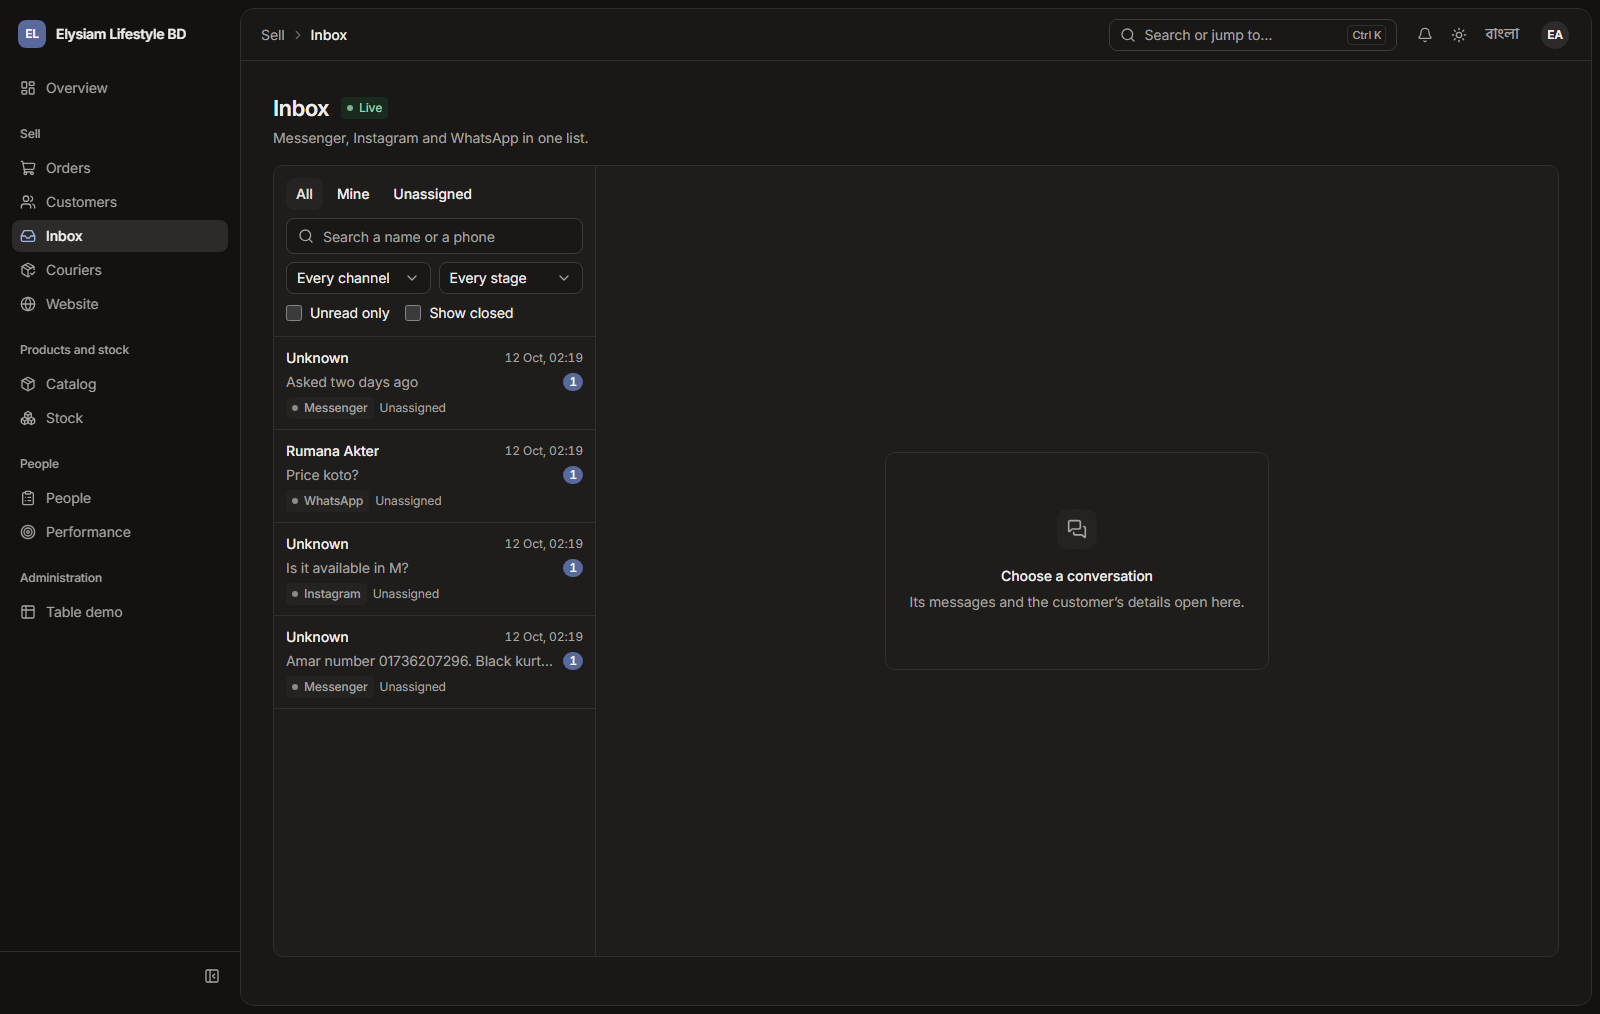
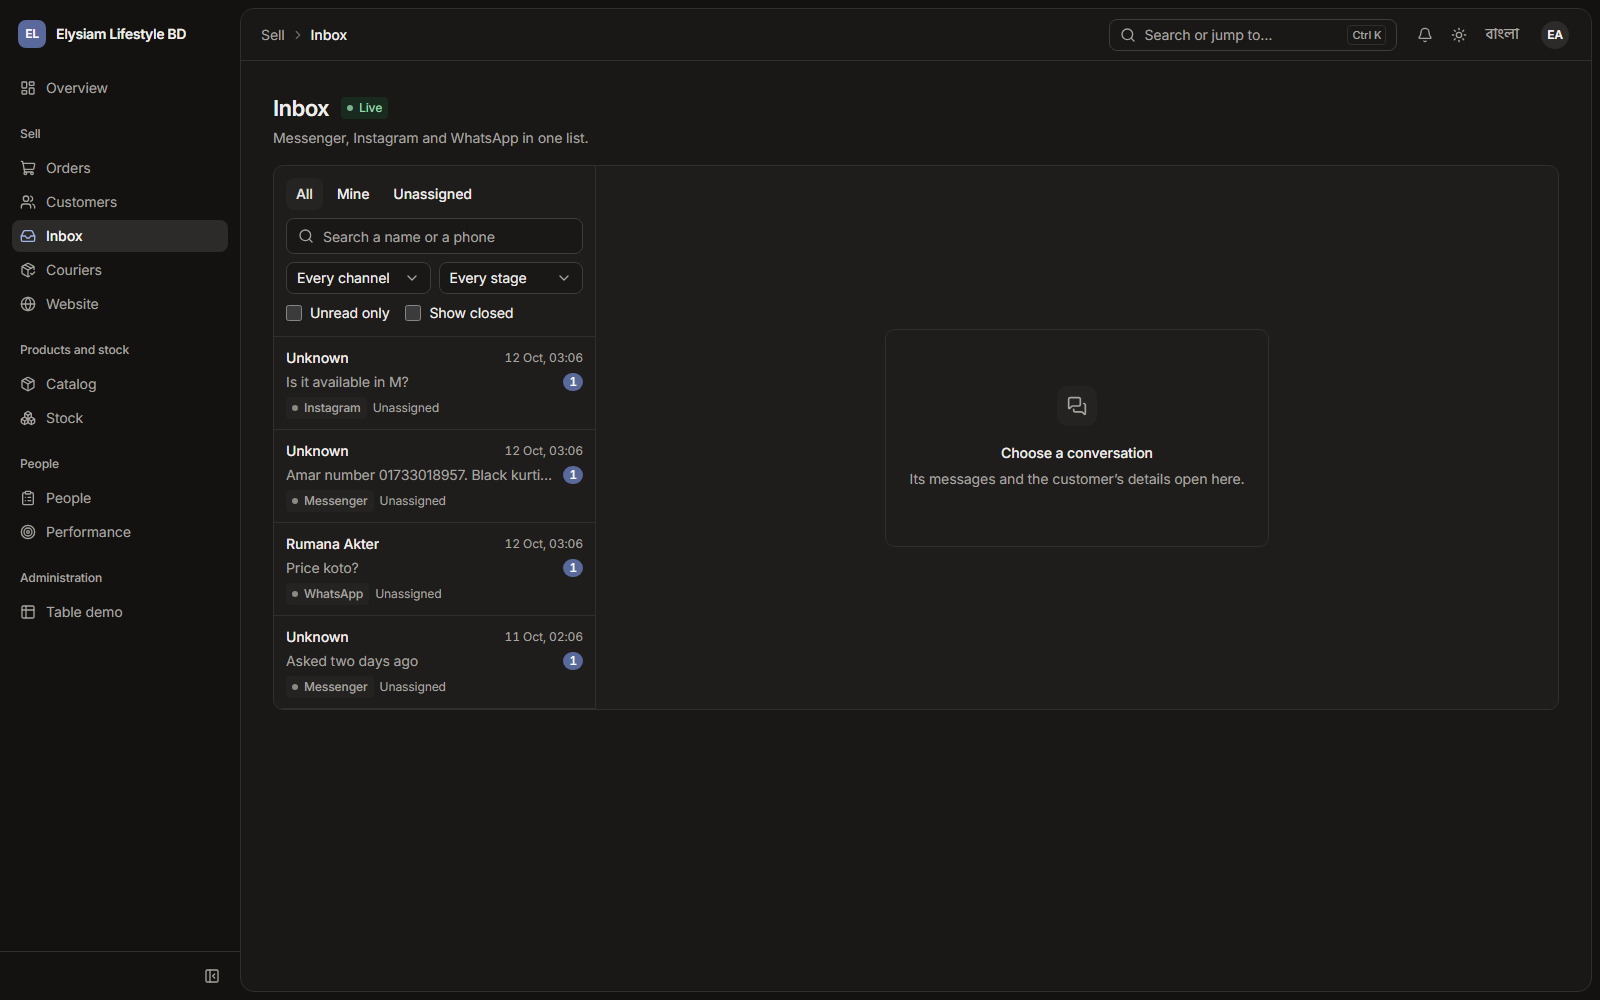
docs(m42): progress, plan Status and D-739 addresses; the inbox's height bound moved onto its panes with a class the console already ships (bundle 27 bytes under budget)

diff --git a/apps/console/src/routes/inbox/inbox-page.tsx b/apps/console/src/routes/inbox/inbox-page.tsx
@@ -142,7 +142,7 @@ function Inbox() {
           {notice}
         </p>
       )}
-      <div className="grid overflow-hidden rounded-lg border border-border bg-card lg:h-[calc(100vh-13rem)] lg:grid-cols-4">
+      <div className="grid overflow-hidden rounded-lg border border-border bg-card lg:grid-cols-4">
         <ConversationList
           filters={filters}
           selected={search.c ?? null}
@@ -207,7 +207,10 @@ function ConversationList({
   ] as const;
 
   return (
-    <section aria-labelledby={`${ids}-title`} className="flex min-h-0 flex-col">
+    <section
+      aria-labelledby={`${ids}-title`}
+      className="flex min-h-0 flex-col md:max-h-[calc(100dvh-14rem)]"
+    >
       <h2 id={`${ids}-title`} className="sr-only">
         {t('inbox.list.label')}
       </h2>
@@ -526,7 +529,7 @@ function Thread({ view, me }: { readonly view: ThreadView; readonly me: string |
   return (
     <section
       aria-labelledby={`${ids}-name`}
-      className="flex min-h-0 min-w-0 flex-col border-l border-border lg:col-span-2"
+      className="flex min-h-0 min-w-0 flex-col border-l border-border md:max-h-[calc(100dvh-14rem)] lg:col-span-2"
     >
       <header className="space-y-2 border-b border-border px-4 py-3">
         <div className="flex flex-wrap items-center gap-2">

diff --git a/apps/console/src/routes/inbox/panel.tsx b/apps/console/src/routes/inbox/panel.tsx
@@ -65,7 +65,7 @@ export function ContactPanel({
   return (
     <aside
       aria-labelledby={`${ids}-title`}
-      className="min-h-0 overflow-y-auto border-l border-border"
+      className="min-h-0 overflow-y-auto border-l border-border md:max-h-[calc(100dvh-14rem)]"
     >
       <h2 id={`${ids}-title`} className="sr-only">
         {t('inbox.panel.label')}

diff --git a/docs/decisions.md b/docs/decisions.md
@@ -603,7 +603,7 @@ Format: `- <date> · <milestone> · D-0xx · <assumption> · <why this default> 
 - 2026-10-11 · M42 · D-736 · **Permissions.** New subjects: `Conversation` (sales and org_admin, `read` and `update` at `org`), `ConversationAssignment` (org_admin, `update`: handing someone else's conversation to a third person) and `InboxChannel` (org_admin, `read` and `update`: Settings → Inbox). Sales see the whole inbox, not their own slice as with orders: a conversation nobody has must be visible to be taken, and a colleague covering a thread must see whose it is; the owner is protected by D-737, not by hiding the thread. Marketing, accounts and the other roles have no inbox. Every route declares one of these, with route-matrix and cost-sweep fixtures and §6 fixture rows · The brief: "a CASL subject for sales, with supervisors seeing everything" · Narrow sales to `own` plus unassigned if the owner wants agents to see only their own threads.
 - 2026-10-11 · M42 · D-737 · **Ownership.** Take (the conversation's row locked, so two people taking at once are served in turn: one 200, the other a 409 naming the owner), release, hand over (the owner hands over their own, anyone may give one nobody has), close and reopen. **Who has a conversation changes only by its owner or a supervisor:** taking over, releasing or handing over someone else's needs `update ConversationAssignment` (org_admin) as well as the acknowledgement, 403 `INBOX_HANDOVER_NOT_ALLOWED` otherwise (the ledger audit's W2: take-over-then-hand-on was a two-call way round the gate); covering a colleague's thread (a reply, a note, the panel) needs only the acknowledgement, and the console shows Take, Release and Hand over accordingly. Any write on a conversation someone else has (reply, take, release, hand over, close, reopen, and the panel's phone, address, stage, tags, notes and interests) needs the request header `x-acknowledge-owner: 1`; without it, 409 `INBOX_OWNER_ACK_REQUIRED` (`reason: owned_by_other`, the owner named in `detail`); with it the write goes ahead, its audit row (written in the write's own transaction) carries `acknowledgedOwner`, and `inbox.owner_overridden` goes to the owner's own room. Replying in a conversation nobody has takes it. Marking read clears the unread count only for the owner. **Auto-offer** is a port (`CONVERSATION_OFFER`, `ports/conversation-offer.port.ts`) called inside the transaction that records a new message in a conversation nobody has, with a do-nothing default; M41's engine binds to it after it merges, and M41's work types decide who is offered. CORS allows the header · The brief; M41 builds the engine and the work types · Bind M41's offer engine, and filter `GET /v1/inbox/team` by work type, when M41 lands.
 - 2026-10-11 · M42 · D-738 · **Contact stages.** `visitor`, `lead`, `customer`, `not_qualified`, `fraud`. An agent chooses lead, not qualified, fraud, or automatic; Customer is never chosen by hand: the worker hears `order.created` and moves every contact linked to that buyer, or holding that saved phone, to Customer, and the contact of the conversation named in the order's `source` too; it links a contact to the buyer only when the contact has no buyer yet (the source conversation's only when its saved phone, if any, is the buyer's), never relinks one, and audits each change as `system:inbox` in the same transaction (the ledger audit's W3); Fraud stays Fraud through an order. Lead is refused (409 `INBOX_STAGE_INVALID`) for someone who has ordered. Fraud marks the conversation red in the list and the thread, and the order desk warns for that phone (`GET /v1/inbox/phone-flags`). The stage is the inbox's own tenant label: not the cross-brand fraud check D-291 removed, and **not synced with `marketing.leads`** (M18's segment records with product, size, age band and profession), which stay the marketing team's · `stageAfterOrder`, `chooseStage`, `reconcileStage` in `@elysium/domain/inbox`, property-tested · A "record as a lead" action into `marketing.leads` is a follow-up if the owner wants the segment reports fed from chats.
-- 2026-10-11 · M42 · D-739 · **Phones in a chat.** `extractBdPhones` (`@elysium/domain/inbox`) offers every Bangladeshi mobile standing alone in the last 50 inbound messages: `01XXXXXXXXX`, `+8801…`, `8801…`, `008801…`, single spaces, dots or dashes between digit groups, Bangla (and Arabic-Indic and full-width) digits, validated by the order desk's own `normalizeBdPhone` (D-170), each once, newest first; a number glued inside a longer digit run, a landline and a ten-digit run without its zero are not offered. A WhatsApp `wa_id` that is a Bangladeshi mobile is offered too, never saved unasked (Meta: "a WhatsApp user's ID and phone number may not always match"). Saving one links the contact to the brand's buyer with that number (`OrdersApi.buyerIdByPhone`) when the customer gave it in this chat (an inbound message or their WhatsApp id) or the agent may open that buyer anyway (`OrdersApi.customerReachable`, the desk's rule); a number typed from elsewhere for a buyer outside the agent's reach is saved without the link, so the panel is no phone-to-buyer lookup (the ledger audit's W1). With no buyer, the order desk creates one · fast-check properties over every written form · —
+- 2026-10-11 · M42 · D-739 · **Phones in a chat.** `extractBdPhones` (`@elysium/domain/inbox`) offers every Bangladeshi mobile standing alone in the last 50 inbound messages: `01XXXXXXXXX`, `+8801…`, `8801…`, `008801…`, single spaces, dots or dashes between digit groups, Bangla (and Arabic-Indic and full-width) digits, validated by the order desk's own `normalizeBdPhone` (D-170), each once, newest first; a number glued inside a longer digit run, a landline and a ten-digit run without its zero are not offered. A WhatsApp `wa_id` that is a Bangladeshi mobile is offered too, never saved unasked (Meta: "a WhatsApp user's ID and phone number may not always match"). Saving one links the contact to the brand's buyer with that number (`OrdersApi.buyerIdByPhone`) when the customer gave it in this chat (an inbound message or their WhatsApp id) or the agent may open that buyer anyway (`OrdersApi.customerReachable`, the desk's rule); a number typed from elsewhere for a buyer outside the agent's reach is saved without the link, so the panel is no phone-to-buyer lookup (the ledger audit's W1). With no buyer, the order desk creates one Addresses found in the chat the same way: `addressesInTexts` (`@elysium/domain/inbox`) matches the thanas of the brand's geography (`ref.thanas`, English and Bangla names) as whole words in the last 50 inbound messages, a name several districts share only with one of those districts named too, and the panel offers each with its district and the message as the address line, saved in one click (the district and thana pickers stay for typing one) · fast-check properties over every written form · —
 - 2026-10-11 · M42 · D-740 · **The panel's customer, by the buyer profile's rule.** The linked buyer's brand-wide counters (orders, delivered, returned, cancelled, spend: what the buyer is to the brand, naming no agent's order) and their ten newest orders **that the viewer may open** (`read Order` with the sales queue, computed from the viewer's own context by `orderReadScopeFor`, since the route declares `read Conversation`), each as number, status, channel, COD and date, through `OrdersApi.customerPanel`. A buyer is linked only as D-739 says, so the panel shows nobody the agent could not reach or the customer did not name. No address, no cost · The ledger audit's W1 found the first cut listing every order of any buyer whose phone an agent typed, past §6's own-order scope · —
 - 2026-10-11 · M42 · D-741 · **Product interests.** A contact's interest is a product, optionally one size or colour, unique per contact and product. The panel shows each with today's catalog: name, status, first photo (`CatalogApi.productSummaries`, new), each active SKU's label, selling and regular price (`CatalogApi.webSkus`), and the units available at the order desk's own location (`OrdersApi.deskAvailability`, new; none for a brand with no location). Nothing near a cost; the cost sweep covers the panel. An interest keeps its product and SKU (the catalog's references port, D-621: `inbox_interests`), so such a product is archived rather than deleted · Invariants 5 and 12 · —
 - 2026-10-11 · M42 · D-742 · **Create order from the chat.** The panel's Create order opens `/orders/new?conversation=<id>`; the desk fetches `GET /v1/inbox/conversations/:id/order-draft` (only the id is in the address bar) and fills, never over what the agent typed: the channel (Messenger → `facebook`, Instagram → `instagram`, WhatsApp → `whatsapp`, §9's words in `channels.ts`), the phone (saved, else the first found), the name, the address, and the products asked about (a chosen size, else a product's only size). The order's `source` gains `inboxConversationId` (a uuid), accepted only from a taker who holds `read Conversation` (400 `VALIDATION_FAILED` otherwise: a branch manager or a reseller has no inbox to name); `OrdersApi.inboxOrigin` (new) reads it back for D-738 · —

diff --git a/docs/progress.md b/docs/progress.md
@@ -2910,3 +2910,68 @@ dry-run|commit --file <users.json>`.
 - New dependencies: none new to the repo. `@elysium/db` gains `@elysium/domain` and runtime
   `@better-auth/utils` (D-706); the console gains `uqr` (catalog, zero dependencies) for the QR
   code.
+
+## 2026-10-12 · M42 · the unified inbox and customer panel (not merged or deployed)
+
+- **Asked for:** the owner's brief of 2026-10-11: Messenger, Instagram and WhatsApp in one inbox in
+  the brand's ERP, conversations owned like orders, and a customer panel beside the thread. Branch
+  `m42-inbox` from `integration-wave2` (02b3571a), worktree `D:/Projects/elysium-erp-m42`. Plan
+  `docs/plans/M42.md`. Decisions D-730 to D-747 (D-730 brings D-290's inbox back as a native module;
+  D-747 OPEN, the owner's Meta set-up). Migrations `0142_m42_inbox_schema` (generated) and
+  `0143_m42_inbox_policies` (RLS, grants, two update triggers); renumber at integration.
+- **Built:** `@elysium/domain/inbox` (phones in a chat, the 24-hour window, stages, delivery
+  status, property-tested); schema `inbox` (settings, channels, contacts, identities,
+  conversations, messages, notes, interests, webhook_events; RLS ENABLE and FORCE, composite FKs);
+  addresses found in a chat matched to the geography; the `inbox` module:
+  `GET`/`POST /webhooks/meta/<org id>` (subscription check, raw body,
+  `X-Hub-Signature-256` over the bytes and Meta's escaped-unicode form, stored then threaded by
+  `inbox.process_webhook`), the Graph adapter for the Messenger Send API, the Messenger API for
+  Instagram and the WhatsApp Cloud API (UNVERIFIED, fake by default, two keys to switch on), the
+  send job `inbox.send_message`, 23 routes under `/v1/inbox` (`Conversation`,
+  `ConversationAssignment`, `InboxChannel`), ownership with `x-acknowledge-owner: 1`
+  (`INBOX_OWNER_ACK_REQUIRED`), the customer panel through `OrdersApi` (`customerPanel`,
+  `customerReachable`, `inboxOrigin`, `deskAvailability`, new) and `CatalogApi.productSummaries`
+  (new), the `order.created` listener (Customer stage), the auto-offer port for M41, four realtime
+  events, nine error codes, OpenAPI entries and the API client. Console: `/inbox` (list, thread,
+  panel), Settings → Inbox, the order desk from a chat (`/orders/new?conversation=`) and its fraud
+  warning; strings in a new `inbox` section (bn a copy of en). nginx template forwards `/webhooks/`.
+- **Audit:** ledger-auditor 0 critical, 3 warnings, all fixed and tested: W1 the panel listed every
+  order of any buyer whose phone was typed (now the buyer profile's rule: brand-wide counters,
+  orders in the viewer's `read Order` scope, a typed phone linked only for a reachable buyer or one
+  the customer gave in the chat); W2 take-over-then-hand-on bypassed `ConversationAssignment` (now
+  any change of someone else's ownership is a supervisor's); W3 any order taker could name a
+  conversation and relink its contact (now only an inbox role names one, the listener never
+  relinks and audits). Nits fixed: secrets fail closed, readable fingerprints in the audit,
+  explicit conflict targets; webhook-body retention and a webhook rate limit are follow-ups (D-744).
+- **Evidence:** `pnpm verify` exit 0 (1,060 s; 276 files, 4,128 passed, 3 skipped, none new). On
+  Testcontainers Postgres:
+  `inbox.e2e.test.ts` 19 tests (each channel's signed webhook opens or threads a conversation, a
+  bad signature or another brand's address is a 401 that stores nothing, the same body and the
+  same message id are ignored; replies sent by the real worker job through the real Graph adapter
+  to a stand-in for Meta, with the Send API and Cloud API bodies, delivery and read receipts and
+  WhatsApp statuses moving them forward only; free text outside the window refused at the route
+  with `window_expired` and in the job without calling Meta; Meta's 4xx kept as `meta:190`; two
+  people taking at once, one 409 naming the owner; a non-owner's note refused without the header
+  and with it audited (`acknowledgedOwner`) and the owner told in their room; take-over and
+  release refused to sales, hand-over to a supervisor only; the phone and address found in a
+  chat, the matched buyer's counters and orders, Customer on an order from the chat through the
+  worker's `order.created` subscription, Fraud sticky and on the desk, typed phones unlinked for
+  an unreachable buyer, orders listed in the viewer's scope; notes, interests with live price,
+  stock and photo and no cost; another brand sees nothing), `inbox.unit.test.ts` 19 (fixtures
+  from Meta's examples, signature with the escaped-unicode form, the Graph adapter against a
+  local HTTP server), domain 20 (fast-check: phones, window, stages, status order, addresses),
+  console logic 6; the route matrix and cost sweep (560 routes); `catalog-deletes` (the inbox
+  answers the catalog's references port). `inbox.stack.ts` 6/6 against the real API, worker and
+  console with axe clean in both themes, screenshots in `docs/review/M42/`. check:routes 560,
+  check:bundle 249,973 of 250,000 bytes (the inbox's height rule moved onto the panes with a class
+  the data table already ships), check:i18n, check:schema (142 migrations), check:white-label,
+  check:api-client: PASS.
+- **Needs a person:** the live brand nginx sites need `webhooks` added to the API location regex by
+  hand (`infra/brand/nginx-brand.conf`); the owner's Meta app, permissions and webhook
+  subscriptions (D-747). The console's first download is 27 bytes under its 250 KB budget: M41's and
+  M43's console changes must be measured together at integration.
+- Follow-ups: bind M41's auto-offer engine to `CONVERSATION_OFFER` and filter the hand-over list
+  by M41's work types (D-737); a retention sweep for webhook bodies whose job dead-lettered and a
+  Valkey rate limit on the webhook (D-744); WhatsApp media download and templates, Meta's human
+  agent tag, merging two contacts, feeding `marketing.leads` from chats (D-734, D-738, D-744).
+- New dependencies: none.

diff --git a/docs/plans/M42.md b/docs/plans/M42.md
@@ -99,7 +99,8 @@ org_admin rooms plus the assignee's), `inbox.owner_overridden` (the owner's room
 - The adapters have never spoken to Meta (UNVERIFIED until real credentials are tested).
 - Meta signs an escaped-unicode form of the body; both the raw bytes and that form are checked.
 - Meta has no idempotency key on sends: a send whose result could not be recorded may repeat.
-- The initial console bundle is at 249.7 of 250 KB; the nav entry must stay tiny.
+- The initial console bundle was at 249.7 of 250 KB and ends 27 bytes under it; the nav entry
+  must stay tiny and the inbox adds no CSS rule of its own.
 
 ## Tasks
 
@@ -111,9 +112,15 @@ org_admin rooms plus the assignee's), `inbox.owner_overridden` (the owner's room
    fixtures, order-created listener; module wiring; tests (webhook fixtures per channel, bad
    signature, replay, window refusal, send job against a fake HTTP server, RLS, ownership).
 6. ✔ Console: inbox page, panel, settings tab, desk prefill + fraud warning, owner notification.
-7. Stack spec `inbox.stack.ts` with screenshots in `docs/review/M42/`.
-8. verify, ledger-auditor, acceptance-auditor, progress, Status.
+7. ✔ Stack spec `inbox.stack.ts` with screenshots in `docs/review/M42/`.
+8. ✔ verify, ledger-auditor, acceptance-auditor, progress, Status.
 
 ## Status
 
-2026-10-11: in progress (plan written, building).
+2026-10-12: **built, not merged or deployed.** Branch `m42-inbox`. `pnpm verify` green; the inbox
+end-to-end suite, the route matrix and the cost sweep pass on real Postgres; `inbox.stack.ts` 6/6
+against the real API, worker and console, screenshots in `docs/review/M42/`. ledger-auditor: 0
+critical, 3 warnings, all fixed (D-737 to D-742). acceptance-auditor: its gaps closed (addresses
+found in the chat, env example, follow-ups, Status). Open: the Meta adapters are UNVERIFIED until a
+brand's real app is tested (D-747); auto-offer waits for M41's engine (the `CONVERSATION_OFFER`
+port); the live nginx sites need `webhooks` added by hand.
